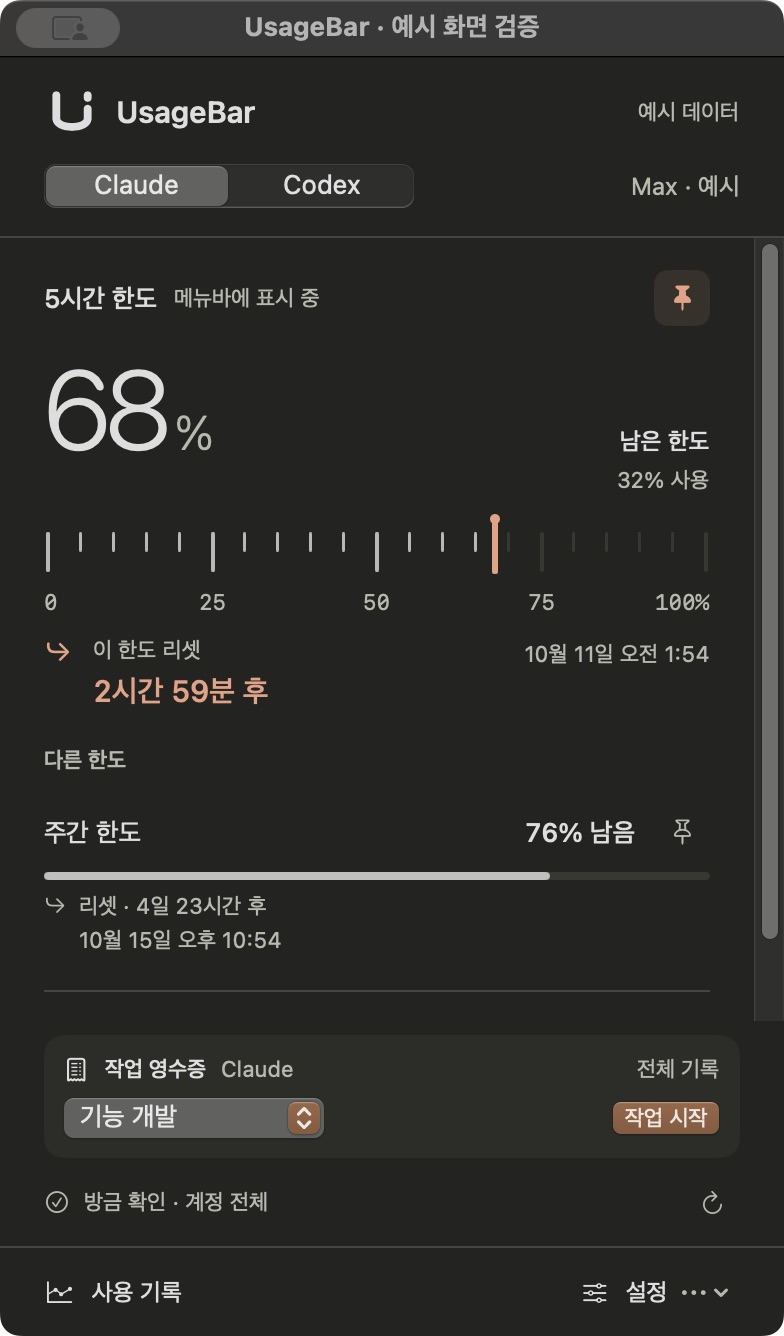
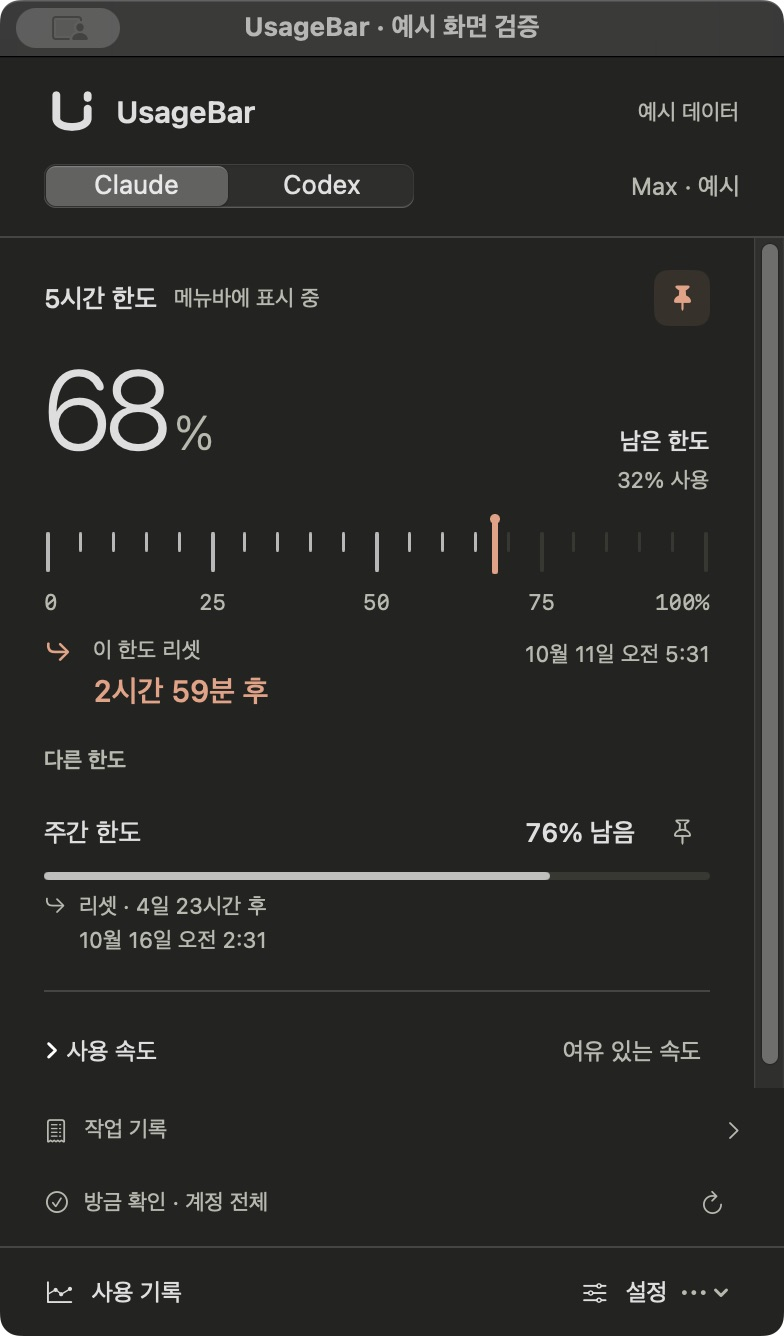
Keep optional work recording collapsed until needed

diff --git a/Sources/UsageBar/WorkJournalPanel.swift b/Sources/UsageBar/WorkJournalPanel.swift
@@ -8,6 +8,7 @@ struct WorkJournalPanel: View {
     @ObservedObject private var journal: WorkJournalController
     @Environment(\.accessibilityReduceMotion) private var reduceMotion
     @State private var kind: WorkKind = .build
+    @State private var isExpanded = false
     @State private var showingError = false
     @State private var copiedID: UUID?
     private let openHistory: () -> Void
@@ -26,14 +27,16 @@ struct WorkJournalPanel: View {
                 activeContent(active)
             } else if let receipt = journal.recentCompletion {
                 completion(receipt)
+            } else if isCollapsed {
+                collapsedIdle
             } else {
                 idle
             }
         }
         .font(.system(size: 11))
-        .padding(10)
+        .padding(isCollapsed ? 0 : 10)
         .frame(maxWidth: .infinity, alignment: .leading)
-        .background(UsageTheme.surface, in: RoundedRectangle(cornerRadius: 10))
+        .background(isCollapsed ? .clear : UsageTheme.surface, in: RoundedRectangle(cornerRadius: 10))
         .foregroundStyle(UsageTheme.ink)
         .tint(UsageTheme.accent)
         .padding(.horizontal, 22)
@@ -41,16 +44,42 @@ struct WorkJournalPanel: View {
         .animation(reduceMotion ? nil : .easeInOut(duration: 0.16), value: presentationID)
         .task { await journal.load() }
         .onChange(of: journal.recentCompletion?.id) { _, _ in copiedID = nil }
+        .onChange(of: journal.state.active?.id) { _, _ in isExpanded = false }
         .onChange(of: journal.message) { _, message in
             if message == nil { showingError = false }
         }
     }
 
+    private var isCollapsed: Bool {
+        journal.isLoaded && journal.state.active == nil && journal.recentCompletion == nil
+            && journal.message == nil && !journal.isBusy && !isExpanded
+    }
+
+    private var collapsedIdle: some View {
+        Button { isExpanded = true } label: {
+            HStack {
+                Label("작업 기록", systemImage: "receipt")
+                Spacer(minLength: 4)
+                Image(systemName: "chevron.right").font(.system(size: 10))
+            }
+            .foregroundStyle(UsageTheme.secondaryInk)
+            .frame(minHeight: 28)
+            .contentShape(Rectangle())
+        }
+        .buttonStyle(.plain)
+        .accessibilityLabel("작업 기록 펼치기")
+        .help("필요할 때 작업 구간을 기록하고 영수증을 확인합니다")
+    }
+
     private var idle: some View {
         Group {
             HStack(spacing: 7) {
-                Label("작업 영수증", systemImage: "receipt")
-                    .fontWeight(.medium)
+                Button { isExpanded = false } label: {
+                    Label("작업 기록", systemImage: "chevron.down").fontWeight(.medium)
+                }
+                .buttonStyle(.plain)
+                .disabled(journal.isBusy || journal.message != nil)
+                .accessibilityLabel("작업 기록 접기")
                 Text(store.selectedProvider.title)
                     .foregroundStyle(UsageTheme.secondaryInk)
                 Spacer(minLength: 4)
@@ -165,10 +194,13 @@ struct WorkJournalPanel: View {
             HStack(spacing: 8) {
                 historyButton
                 Spacer(minLength: 4)
-                Button("다음 작업") { journal.dismissRecentCompletion() }
+                Button("닫기") {
+                    isExpanded = false
+                    journal.dismissRecentCompletion()
+                }
                     .buttonStyle(.plain)
                     .disabled(journal.isBusy)
-                    .help("영수증을 기록에 보관하고 다음 작업을 준비합니다")
+                    .help("영수증은 전체 기록에 보관하고 완료 표시를 닫습니다")
                 Button {
                     NSPasteboard.general.clearContents()
                     if NSPasteboard.general.setString(receipt.copyText, forType: .string) { copiedID = receipt.id }
@@ -254,7 +286,7 @@ struct WorkJournalPanel: View {
         if !journal.isLoaded { return "loading" }
         if let active = journal.state.active { return "active-\(active.id)" }
         if let receipt = journal.recentCompletion { return "receipt-\(receipt.id)" }
-        return "idle"
+        return isCollapsed ? "idle-collapsed" : "idle-expanded"
     }
 
     private static func durationLabel(_ interval: TimeInterval) -> String {

diff --git a/Sources/UsageBar/PreferencesView.swift b/Sources/UsageBar/PreferencesView.swift
@@ -103,7 +103,7 @@ struct PreferencesView: View {
                 }
 
                 Section {
-                    LabeledContent("버전", value: "0.6.0")
+                    LabeledContent("버전", value: "0.6.1")
                     detail("사용량 기록은 이 Mac에 저장돼요. 대화 내용은 수집하지 않아요.")
                 } header: {
                     sectionTitle("앱 정보", symbol: "info.circle")
